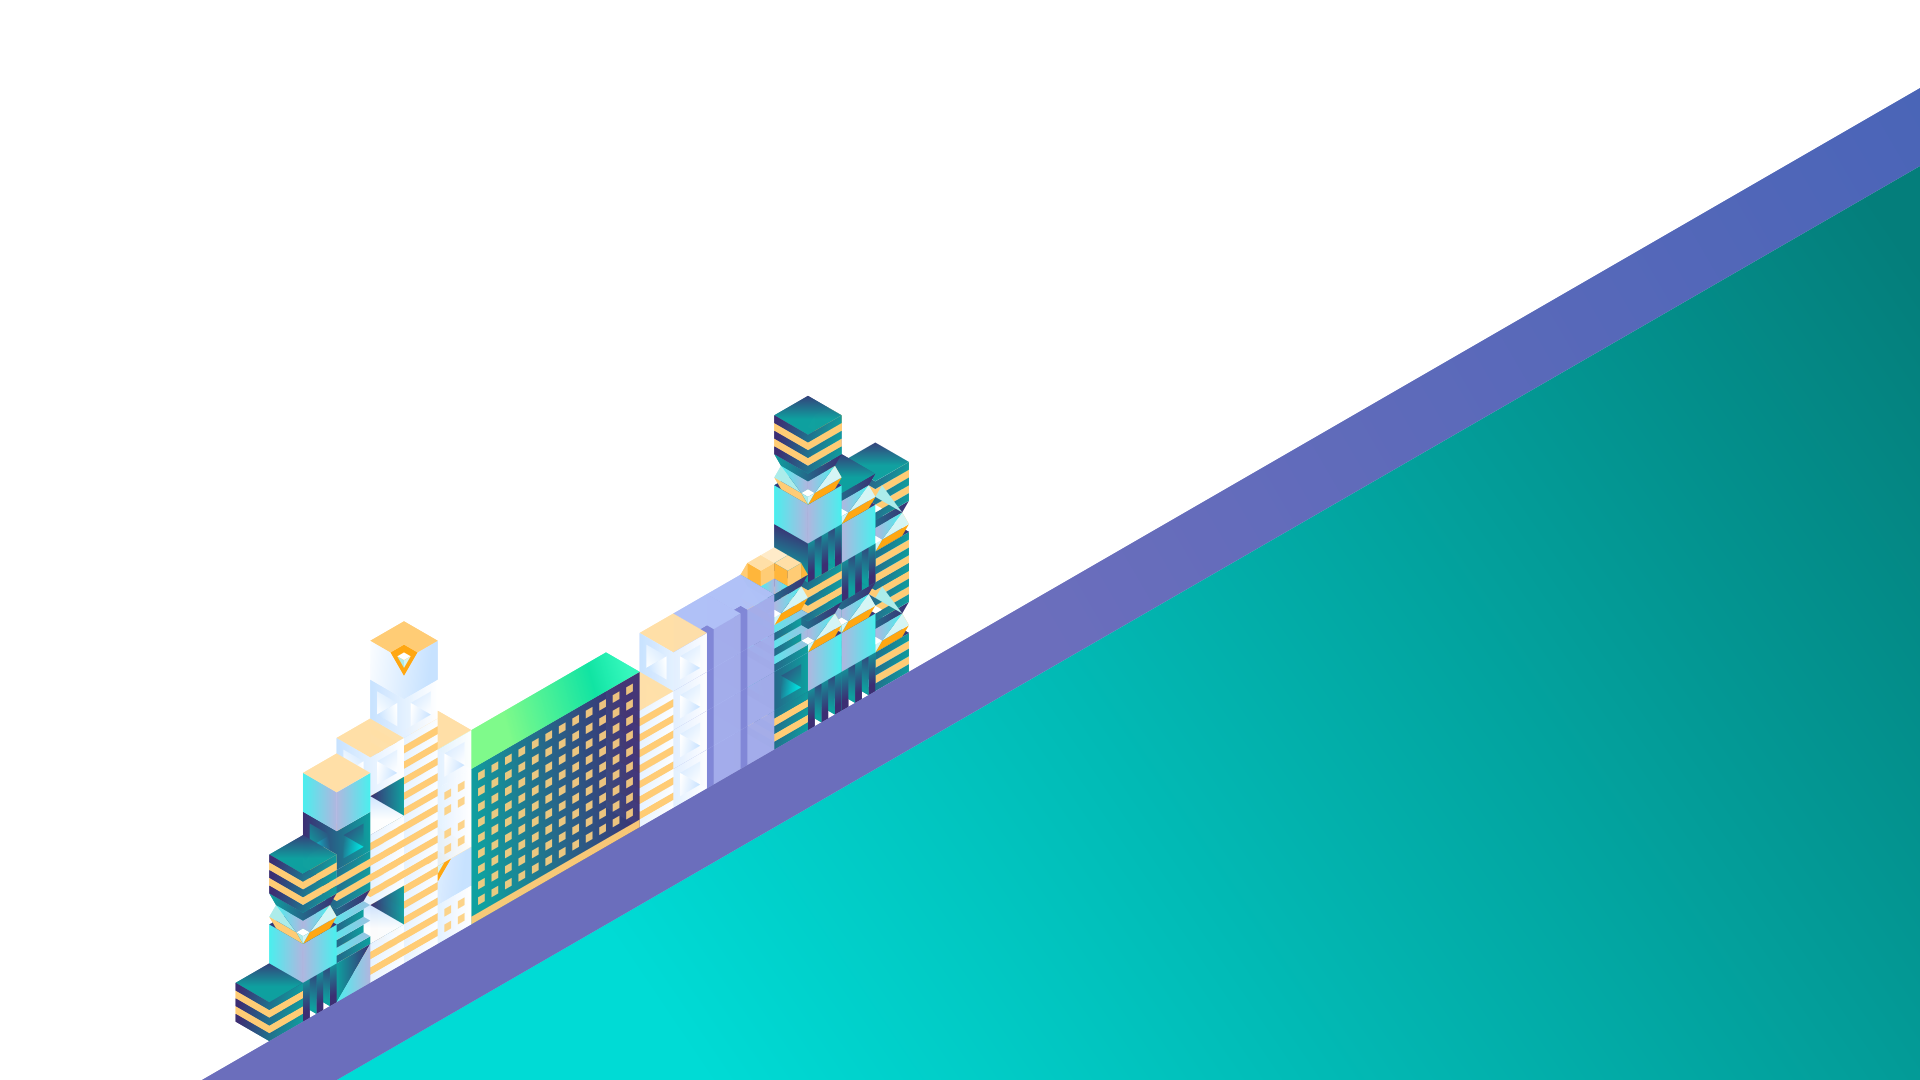
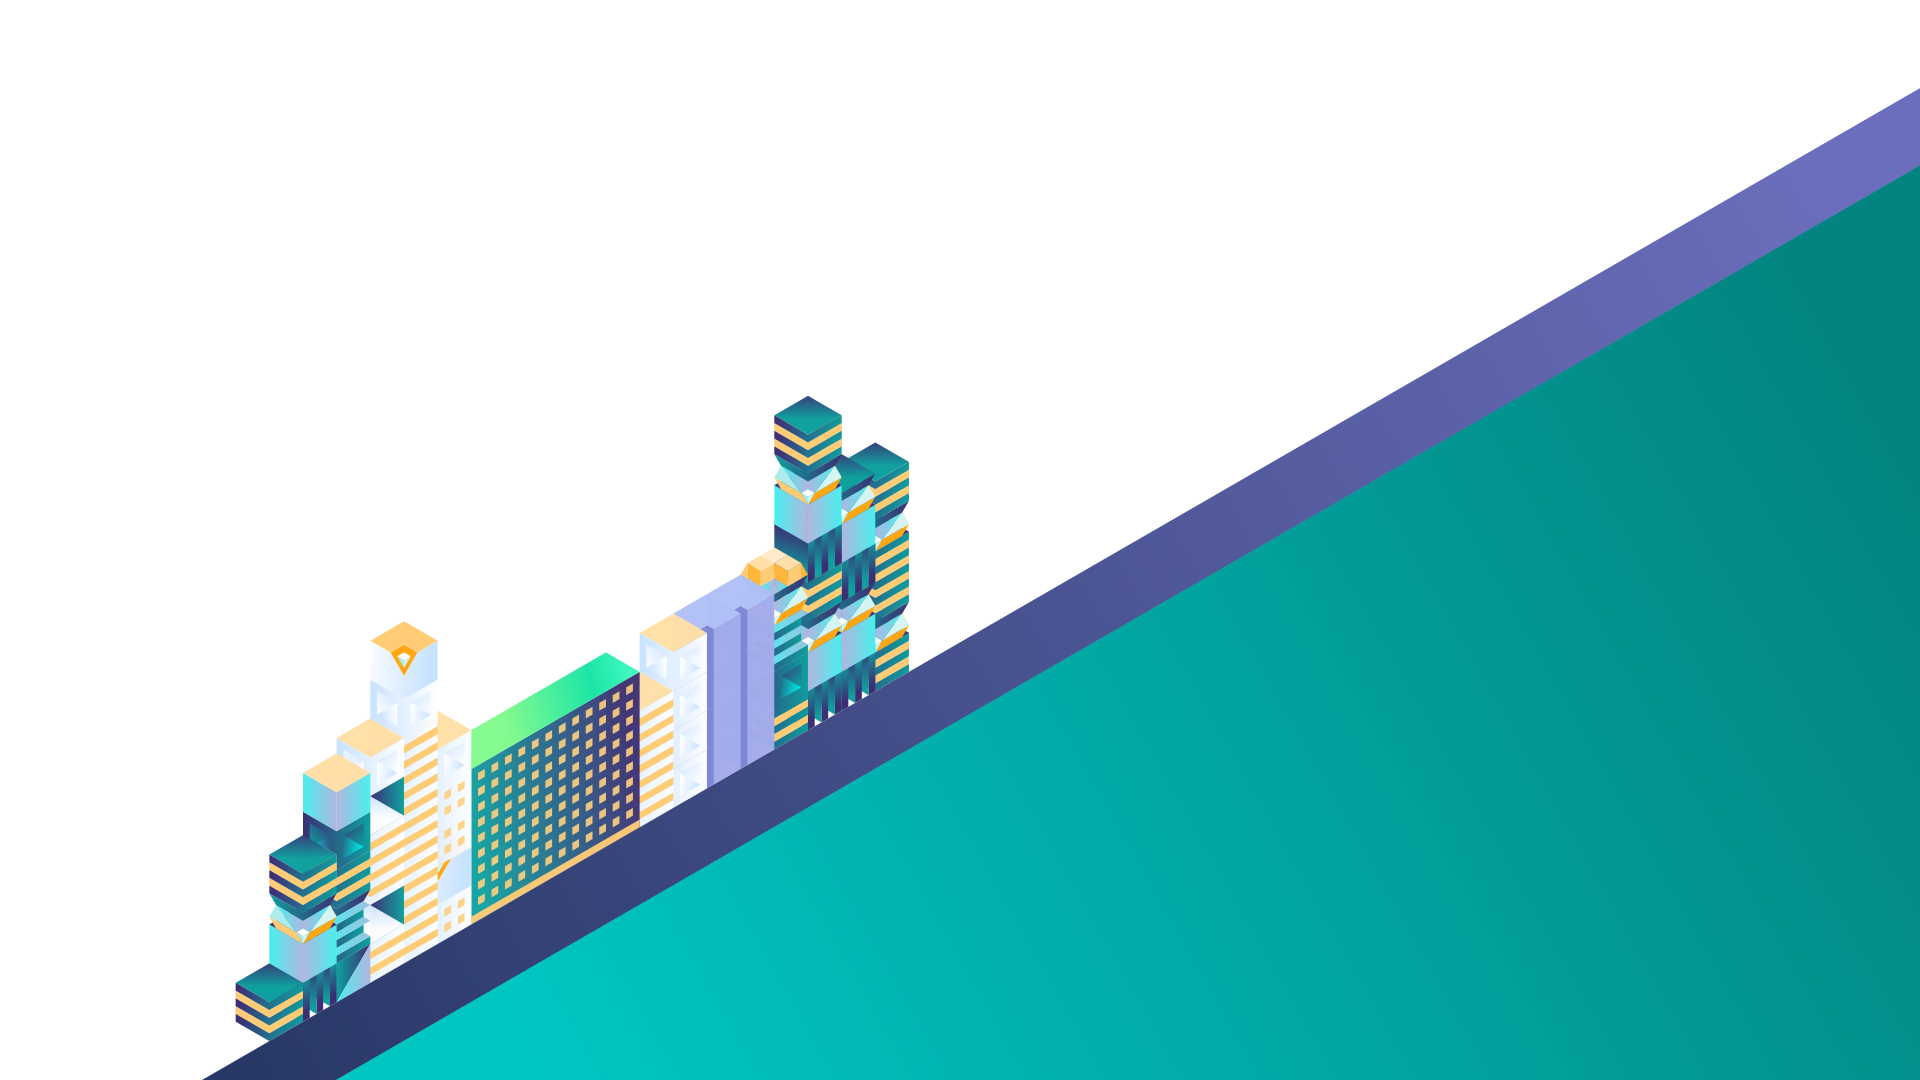
fixed gradients added trains

diff --git a/newversion40854/index2.html b/newversion40854/index2.html
@@ -75,6 +75,9 @@
       <div id = "animation1">
       <div id = "unskew">
     <div class = "eight"></div>
+    <div class = "nine"></div>
+    <div class = "ten"></div>
+    <div class = "eleven"></div>
       </div>
     </div>
     </div>
@@ -184,6 +187,33 @@
         animation-direction: alternate;
         
     }
+    .nine{
+        background: url(finalrender2/9.png) right bottom;
+        background-size: 100%;
+        height: 1080px;
+        width: 1920px;
+        position: absolute;
+        animation: train 300s infinite;
+        
+    }
+    .ten{
+        background: url(finalrender2/10.png) right bottom;
+        background-size: 100%;
+        height: 1080px;
+        width: 1920px;
+        position: absolute;
+        animation: traindoors 300s infinite;
+        
+    }
+    .eleven{
+        background: url(finalrender2/11.png) right bottom;
+        background-size: 100%;
+        height: 1080px;
+        width: 1920px;
+        position: absolute;
+        animation: traindoors2 300s infinite;
+        
+    }
     .skewfunny{
       transform: skew(0deg, -30deg);
     }
@@ -208,6 +238,62 @@
   }
   100% {
     transform: translate(5px, 2px) translateZ(0) skew(0deg,30deg);
+  }
+}
+@keyframes train {
+  0% {
+    transform: translate(1000px, 0) translateZ(0) skew(0deg,30deg);
+  
+  }
+  2%{
+    transform: translate(-210px, 0px) translateZ(0) skew(0deg,30deg);
+  }
+  10%{
+    transform: translate(-210px, 0px) translateZ(0) skew(0deg,30deg);
+  }
+  12% {
+    transform: translate(-1500px, 0px) translateZ(0) skew(0deg,30deg);
+  }
+}
+@keyframes traindoors {
+  0% {
+    transform: translate(1000px, 0) translateZ(0) skew(0deg,30deg);
+  
+  }
+  2%{
+    transform: translate(-210px, 0px) translateZ(0) skew(0deg,30deg);
+  }
+  2.5%{
+    transform: translate(-220px, 0px) translateZ(0) skew(0deg,30deg);
+  }
+  9.5%{
+    transform: translate(-220px, 0px) translateZ(0) skew(0deg,30deg);
+  }
+  10%{
+    transform: translate(-210px, 0px) translateZ(0) skew(0deg,30deg);
+  }
+  12% {
+    transform: translate(-1500px, 0px) translateZ(0) skew(0deg,30deg);
+  }
+}@keyframes traindoors2 {
+  0% {
+    transform: translate(1000px, 0) translateZ(0) skew(0deg,30deg);
+  
+  }
+  2%{
+    transform: translate(-210px, 0px) translateZ(0) skew(0deg,30deg);
+  }
+  2.5%{
+    transform: translate(-190px, 0px) translateZ(0) skew(0deg,30deg);
+  }
+  9.5%{
+    transform: translate(-190px, 0px) translateZ(0) skew(0deg,30deg);
+  }
+  10%{
+    transform: translate(-210px, 0px) translateZ(0) skew(0deg,30deg);
+  }
+  12% {
+    transform: translate(-1500px, 0px) translateZ(0) skew(0deg,30deg);
   }
 }
 #stadium {
